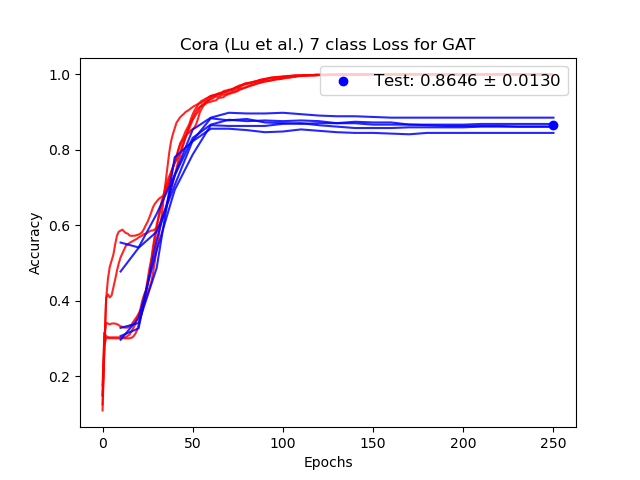
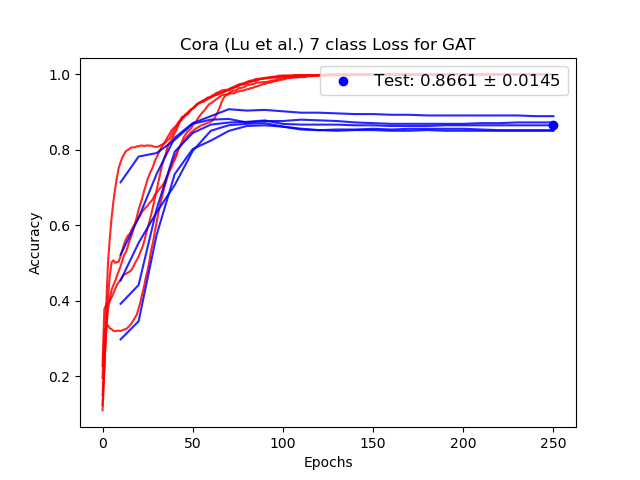
refactor dataset base class functions. renamed edge_reverse_pairs and fixed warning in GAT

Changed region(s): [[0.1562, 0.1562, 0.875, 0.8125], [0.8438, 0.1562, 0.875, 0.1875], [0.7188, 0.1562, 0.75, 0.1875]]

diff --git a/kgcnn/data/base.py b/kgcnn/data/base.py
@@ -3,8 +3,7 @@ import os
 
 from kgcnn.utils.adj import get_angle_indices, coordinates_to_distancematrix, invert_distance, \
     define_adjacency_from_distance, sort_edge_indices, get_angle, add_edges_reverse_indices, \
-    precompute_adjacency_scaled, make_adjacency_from_edge_indices, convert_scaled_adjacency_to_list, \
-    add_self_loops_to_edge_indices
+    rescale_edge_weights_degree_sym, add_self_loops_to_edge_indices
 
 
 class MemoryGraphDataset:
@@ -136,29 +135,20 @@ class MemoryGraphDataset:
 
         self._operate_on_edges(add_self_loops_to_edge_indices, remove_duplicates=remove_duplicates,
                                sort_indices=sort_indices, fill_value=fill_value)
+        return self
 
-    def normalize_edge_weights_sym(self, add_identity=True):
+    def normalize_edge_weights_sym(self):
 
         if self.edge_indices is None:
             raise ValueError("ERROR:kgcnn: Can scale adjacency matrix, as graph indices are not defined.")
         if self.edge_weights is None:
-            self.edge_weights = [np.ones_like(x[:, 0]) for x in self.edge_indices]
-        self.edge_weights = [np.squeeze(x) if len(x.shape) > 1 else x for x in self.edge_weights]
-
-        if add_identity:
-            self.add_self_loops()
+            self.edge_weights = [np.ones_like(x[:, :1]) for x in self.edge_indices]
 
         new_weights = []
         for idx, edw in zip(self.edge_indices, self.edge_weights):
-            # We cast to a sparse adjacency matrix using weights,
-            adj = make_adjacency_from_edge_indices(idx, edw)
-            adj = precompute_adjacency_scaled(adj, add_identity=add_identity)
-            edi, ed = convert_scaled_adjacency_to_list(adj)
-            new_weights.append(ed)
-            # indices must not change
-            assert len(edi) == len(idx), "ERROR:kgcnn: Edge indices changed when scaling weights."
+            new_weights.append(rescale_edge_weights_degree_sym(idx, edw))
 
-        self.edge_weights = [np.expand_dims(x, axis=-1) if len(x.shape) <= 1 else x for x in self.edge_weights]
+        self.edge_weights = new_weights
         return self
 
     def _print_info(self):

diff --git a/kgcnn/utils/adj.py b/kgcnn/utils/adj.py
@@ -5,7 +5,7 @@ import scipy.sparse as sp
 def precompute_adjacency_scaled(adj_matrix, add_identity: bool = True):
     r"""Precompute the scaled adjacency matrix :math:`A_{s} = D^{-0.5} (A + I) D^{-0.5}`
     after Thomas N. Kipf and Max Welling (2016). Where :math:`I` denotes the diagonal unity matrix.
-    The node degree matrix is defined as :math:`D_{ii} = \sum_{j} (A + I)_{ij}`.
+    The node degree matrix is defined as :math:`D_{i,i} = \sum_{j} (A + I)_{i,j}`.
 
     Args:
         adj_matrix (np.ndarray, scipy.sparse): Adjacency matrix :math:`A` of shape `(N, N)`.
@@ -44,6 +44,33 @@ def precompute_adjacency_scaled(adj_matrix, add_identity: bool = True):
         return di.dot(adj).dot(dj).tocoo()
     else:
         raise TypeError("Matrix format not supported: %s" % type(adj_matrix))
+
+
+def rescale_edge_weights_degree_sym(edge_indices, edge_weights):
+    r"""Normalize edge weights as :math:`\tilde(e)_{i,j} = d_{i,i}^{-0.5} e_{i,j} d_{j,j}^{-0.5}`.
+    The node degree is defined as :math:`D_{i,i} = \sum_{j} A_{i, j}`.
+
+
+    Args:
+        edge_indices (np.ndarray): Index-list referring to nodes of shape `(N, 2)`
+        edge_weights (np.ndarray): Edge weights matching indices of shape `(N, 1)`
+
+    Returns:
+        edge_weights (np.ndarray):  Rescaled edge weights of shape
+    """
+    row_val, row_cnt = np.unique(edge_indices[:, 0], return_counts=True)
+    col_val, col_cnt = np.unique(edge_indices[:, 1], return_counts=True)
+    d_row = np.zeros(len(edge_weights), dtype=edge_weights.dtype)
+    d_col = np.zeros(len(edge_weights), dtype=edge_weights.dtype)
+    d_row[row_val] = row_cnt
+    d_col[col_val] = col_cnt
+    d_ii = np.power(d_row, -0.5).flatten()
+    d_jj = np.power(d_col, -0.5).flatten()
+    d_ii[np.isinf(d_ii)] = 0.
+    d_jj[np.isinf(d_jj)] = 0.
+    new_weights = np.expand_dims(d_ii[edge_indices[:, 0]], axis=-1) * edge_weights * np.expand_dims(
+        d_jj[edge_indices[:, 1]], axis=-1)
+    return new_weights
 
 
 def convert_scaled_adjacency_to_list(adj_scaled):

diff --git a/training/train_cora_lu.py b/training/train_cora_lu.py
@@ -33,7 +33,7 @@ hyper = hyper_selection.get_hyper()
 
 # Loading Cora_lu Dataset
 hyper_data = hyper['data']
-dataset = CoraLUDataset().make_undirected_edges().normalize_edge_weights_sym()
+dataset = CoraLUDataset().make_undirected_edges().add_self_loops(fill_value=1.0).normalize_edge_weights_sym()
 data_name = dataset.dataset_name
 data_length = dataset.length
 labels = dataset.node_labels
